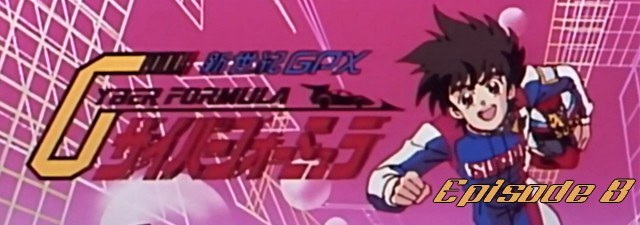
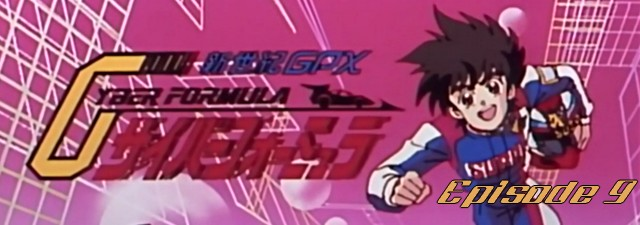
New release

Changed region(s): [[0.6562, 0.7778, 1.0, 0.9333]]

diff --git a/2015-01-09.html b/2015-01-09.html
@@ -1,0 +1,102 @@
+<!DOCTYPE html>
+<html lang="fr-FR">
+	<head>
+		<title>Future GPX Cyber Formula 09 vostfr | Nobluesky Fansub</title>
+		<meta charset="utf-8" />
+		<link rel="Shortcut Icon" type="image/x-icon" href="favicon.ico" />
+		<link href="fonts/fonts.css" rel="stylesheet" type="text/css" />
+		<link href="style.css" rel="stylesheet" type="text/css" media="screen" />
+		<link rel="stylesheet" href="menu.css" type="text/css" />
+		<script src="jquery.js" type="text/javascript"></script>
+		<script src="background-script.js" type="text/javascript"></script>
+	</head>
+<body>
+<div class="banner">
+	<a title="Nobluesky Fansub" href="index.html"> <img class="banner" alt="Nobluesky Fansub" title="Nobluesky Fansub" src="images/banner.png"/> </a>
+</div>
+<!-- end banner -->
+<div id="menu-wrapper">
+	<div id="menu">
+		<script type="text/javascript">
+		$( '#menu' ).load( 'menu.html' );
+		</script>
+		<noscript>Activez javascript pour voir le menu!</noscript>
+	</div>
+</div>
+<!-- end #menu -->
+<div id="page-wrapper">
+<div id="sidebar-wrapper">
+	<div id="sidebar">
+		<script type="text/javascript">
+		$( '#sidebar' ).load( 'sidebar.html' );
+		</script>
+	</div>
+	<!-- end #sidebar -->
+</div>
+	<div id="article">
+		<div id="content">
+			<div class="post">
+				<h1 class="title">Future GPX Cyber Formula 09 vostfr</h1>
+				<p class="meta"><span class="date">9 Janvier 2015</span><span class="posted">Posté par <a href="about.html#nobluesky">Nobluesky</a></span></p>
+				<div style="clear: both;">&nbsp;</div>
+				<div class="entry">
+					<img class="post-images" src="images/2015/news2.jpg" alt="" />
+					<p>Salut à tous!</p>
+					<p>Voici la suite des aventures d'Hayato, qui est en route pour le Grand Prix Mondial.</p>
+					<p>Allez aujourd'hui comme je manque de temps pour la news, je vous laisse découvrir le reste ;)</p>
+					<p>Et n'hésitez pas à faire des remarques dans les commentaires si vous avez des suggestions ou une correction à apporter, c'est toujours utile pour s'améliorer.</p>
+					<p>Bon épisode!</p>
+					<h3>Téléchargements et streaming</h3>
+					<p class="links dl"><a href="http://www.jheberg.net/captcha/nobluesub-future-gpx-cyber-formula-09/" class="button-dl">Jheberg</a></p>&nbsp; | &nbsp;
+					<p class="links dl"><a href="http://rutube.ru/video/65cf4b4a03dab5566242880939a415ff/" class="button-dl">Rutube</a></p>&nbsp; | &nbsp;
+					<p class="links dl"><a href="https://mega.co.nz/#!eZ1hiJCT!ahfmqlWu9C5SM2DVCsOYUdUUcHVNYGssVHM6bZt28xg" class="button-dl">Mega</a></p>
+					<h3>Commentaires</h3>
+					<div id="disqus_thread"></div>
+					<script type="text/javascript">
+						/* * * CONFIGURATION VARIABLES: EDIT BEFORE PASTING INTO YOUR WEBPAGE * * */
+						var disqus_shortname = 'noblueskyfansub'; // required: replace example with your forum shortname
+
+						/* * * DON'T EDIT BELOW THIS LINE * * */
+						(function() {
+							var dsq = document.createElement('script'); dsq.type = 'text/javascript'; dsq.async = true;
+							dsq.src = '//' + disqus_shortname + '.disqus.com/embed.js';
+							(document.getElementsByTagName('head')[0] || document.getElementsByTagName('body')[0]).appendChild(dsq);
+						})();
+					</script>
+					<noscript>Activez javascript pour voir les commentaires.</noscript>
+					<a href="http://disqus.com" class="dsq-brlink">commentaires propulsés par <span class="logo-disqus">Disqus</span></a>
+				</div>
+			</div>
+			<div style="clear: both;">&nbsp;</div>
+		</div>
+		<!-- end #content -->
+		<div style="clear: both;">&nbsp;</div>
+	</div>
+</div>
+<!-- end #page -->
+<script type="text/javascript">
+$(window).scroll(function() {
+    if ($(this).scrollTop() < 1000) {
+        $("#footer").hide();
+    }
+    else {
+        $("#footer").show();
+    }
+});
+$(window).scroll(function() {
+  if ($(this).scrollTop() < 1000) {
+    $("footer").slideUp();
+      }
+  else {
+    $("footer").slideDown();
+      }
+});		
+</script>
+<div id="footer">
+	<script type="text/javascript">
+	$( '#footer' ).load( 'footer.html' );
+	</script>
+</div>
+<!-- end #footer -->
+</body>
+</html>

diff --git a/index.html b/index.html
@@ -35,7 +35,7 @@
 	<div class="slider-wrapper theme-default">
 		<div class="ribbon"></div>
 		<div id="slider" class="nivoSlider">
-			<a href="2015-01-04.html"><img src="images/img01.jpg" alt="" /></a>
+			<a href="2015-01-09.html"><img src="images/img01.jpg" alt="" /></a>
 			<a href="http://stream.nobluesub.com"><img src="images/img02.jpg" alt="" /></a>
 		</div>
 	</div>
@@ -64,6 +64,20 @@
 				</div>
 			</div>
 			<div class="post">
+				<h1 class="title"><a href="2015-01-09.html">Future GPX Cyber Formula 09 vostfr</a></h1>
+				<p class="meta"><span class="date">9 Janvier 2015</span><span class="posted">Posté par <a href="about.html#nobluesky">Nobluesky</a></span></p>
+				<p><a href="http://nobluesub.com/2015-01-09.html#disqus_thread">Commentaires</a></p>
+				<div style="clear: both;">&nbsp;</div>
+				<div class="entry">
+					<img class="post-images" src="images/2015/news2.jpg" alt="" />
+					<p>Salut à tous!</p>
+					<p>Voici la suite des aventures d'Hayato, qui est en route pour le Grand Prix Mondial.</p>
+					<p>Allez aujourd'hui comme je manque de temps pour la news, je vous laisse découvrir le reste ;)</p>
+					<p>Et n'hésitez pas à faire des remarques dans les commentaires si vous avez des suggestions ou une correction à apporter, c'est toujours utile pour s'améliorer.</p>
+					<p class="links"><a href="2015-01-09.html" class="button">Lire la suite</a></p>
+				</div>
+			</div>
+			<div class="post">
 				<h1 class="title"><a href="2015-01-04.html">Future GPX Cyber Formula 08 vostfr</a></h1>
 				<p class="meta"><span class="date">4 Janvier 2015</span><span class="posted">Posté par <a href="about.html#nobluesky">Nobluesky</a></span></p>
 				<p><a href="http://nobluesub.com/2015-01-04.html#disqus_thread">Commentaires</a></p>
@@ -84,6 +98,7 @@
 				<div style="clear: both;">&nbsp;</div>
 				<div class="entry">
 					<img class="post-images" src="images/2014/news8.jpg" alt="" />
+					<p>Bonsoir à tous!</p>
 					<p>Eh oui, je suis encore là! Après presque trois mois sans une sortie, voici enfin cet épisode 7, histoire de vous souhaiter un Joyeux Noël!</p>
 					<p>Je suis désolé de n'avoir pu vous offrir un épisode par semaine, mais c'est ainsi, la vie ne permet pas toujours de faire ce que l'on a prévu. Alors j'ai pris une décision, j'espère que vous ne <del>me massacrerez pas à coups d'onigris</del> m'en voudrez pas : les épisodes sortiront...</p>
 					<p class="links"><a href="2014-12-25.html" class="button">Lire la suite</a></p>
@@ -116,21 +131,6 @@
 					<p>Notre équipe préférée s'en va vers le Grand Prix National. Mais la route leur réserve quelques surprises...</p>
 					<p>Bon épisode et à la prochaine!</p>
 					<p class="links"><a href="2014-09-21.html" class="button">Lire la suite</a></p>
-				</div>
-			</div>
-			<div class="post">
-				<h1 class="title"><a href="2014-09-07.html">Future GPX Cyber Formula 04 vostfr</a></h1>
-				<p class="meta"><span class="date">7 Septembre 2014</span><span class="posted">Posté par <a href="about.html#nobluesky">Nobluesky</a></span></p>
-				<p><a href="http://nobluesub.com/2014-09-07.html#disqus_thread">Commentaires</a></p>
-				<div style="clear: both;">&nbsp;</div>
-				<div class="entry">
-					<img class="post-images" src="images/2014/news5.jpg" alt="" />
-					<p>Salut à tous!</p>
-					<p>J'espère que la rentrée s'est bien passée pour vous si vous étudiez encore comme moi, sinon je vous souhaite de bien débuter l'année au boulot, c'est la moindre des choses.</p>
-					<p>Trève de parlotte, ce que vous souhaitez n'est pas de parler travail mais de vous changer les idées non?!</p>
-					<p>Sinon vous ne seriez pas là, à venir dans l'antre de Nobluesky!!</p>
-					<p>Voici donc la suite de la course de Fujioka : c'est la course finale, qui fait suite au contre-la-montre miraculeusement réussi par Hayato. Mais la nature de cette course est différente...</p>
-					<p class="links"><a href="2014-09-07.html" class="button">Lire la suite</a></p>
 				</div>
 			</div>
 			<div style="clear: both;">&nbsp;</div>

diff --git a/page2.html b/page2.html
@@ -31,7 +31,7 @@
 	<div class="slider-wrapper theme-default">
 		<div class="ribbon"></div>
 		<div id="slider" class="nivoSlider">
-			<a href="2015-01-04.html"><img src="images/img01.jpg" alt="" /></a>
+			<a href="2015-01-09.html"><img src="images/img01.jpg" alt="" /></a>
 			<a href="http://stream.nobluesub.com"><img src="images/img02.jpg" alt="" /></a>
 		</div>
 	</div>
@@ -51,6 +51,21 @@
 </div>
 	<div id="feed">
 		<div id="content">
+			<div class="post">
+				<h1 class="title"><a href="2014-09-07.html">Future GPX Cyber Formula 04 vostfr</a></h1>
+				<p class="meta"><span class="date">7 Septembre 2014</span><span class="posted">Posté par <a href="about.html#nobluesky">Nobluesky</a></span></p>
+				<p><a href="http://nobluesub.com/2014-09-07.html#disqus_thread">Commentaires</a></p>
+				<div style="clear: both;">&nbsp;</div>
+				<div class="entry">
+					<img class="post-images" src="images/2014/news5.jpg" alt="" />
+					<p>Salut à tous!</p>
+					<p>J'espère que la rentrée s'est bien passée pour vous si vous étudiez encore comme moi, sinon je vous souhaite de bien débuter l'année au boulot, c'est la moindre des choses.</p>
+					<p>Trève de parlotte, ce que vous souhaitez n'est pas de parler travail mais de vous changer les idées non?!</p>
+					<p>Sinon vous ne seriez pas là, à venir dans l'antre de Nobluesky!!</p>
+					<p>Voici donc la suite de la course de Fujioka : c'est la course finale, qui fait suite au contre-la-montre miraculeusement réussi par Hayato. Mais la nature de cette course est différente...</p>
+					<p class="links"><a href="2014-09-07.html" class="button">Lire la suite</a></p>
+				</div>
+			</div>
 			<div class="post">
 				<h1 class="title"><a href="2014-08-28.html">Future GPX Cyber Formula 03 vostfr</a></h1>
 				<p class="meta"><span class="date">28 Août 2014</span><span class="posted">Posté par <a href="about.html#nobluesky">Nobluesky</a></span></p>

diff --git a/future-gpx-cyber-formula.html b/future-gpx-cyber-formula.html
@@ -87,6 +87,11 @@
 					<p class="links dl"><a href="http://www.jheberg.net/captcha/nobluesub-future-gpx-cyber-formula-08/" class="button-dl">Jheberg</a></p>&nbsp; | &nbsp;
 					<p class="links dl"><a href="http://rutube.ru/video/0e54cbd6760f9f0db62997ab5ec778c2/" class="button-dl">Rutube</a></p>&nbsp; | &nbsp;
 					<p class="links dl"><a href="https://mega.co.nz/#!eA0RzY4Q!ETFw5tDUtvxiQT0XEzS0nWjqO_VwheohrVLD6f8J4iA" class="button-dl">Mega</a></p>
+					<br>
+					Episode 9 : 
+					<p class="links dl"><a href="http://www.jheberg.net/captcha/nobluesub-future-gpx-cyber-formula-09/" class="button-dl">Jheberg</a></p>&nbsp; | &nbsp;
+					<p class="links dl"><a href="http://rutube.ru/video/65cf4b4a03dab5566242880939a415ff/" class="button-dl">Rutube</a></p>&nbsp; | &nbsp;
+					<p class="links dl"><a href="https://mega.co.nz/#!eZ1hiJCT!ahfmqlWu9C5SM2DVCsOYUdUUcHVNYGssVHM6bZt28xg" class="button-dl">Mega</a></p>
 				</div>
 			</div>
 			<div style="clear: both;">&nbsp;</div>

diff --git a/sidebar.html b/sidebar.html
@@ -23,9 +23,9 @@
 		<li>
 			<h2>Avancements</h2>
 			<ul>
-				<li>Future GPX Cyber Formula 09 : 80%
+				<li>Future GPX Cyber Formula 09 : 100%
 					<div class="progress-bar blue stripes">
-					<span style="width: 80%"></span>
+					<span style="width: 100%"></span>
 					</div>
 				</li>
 			</ul>
